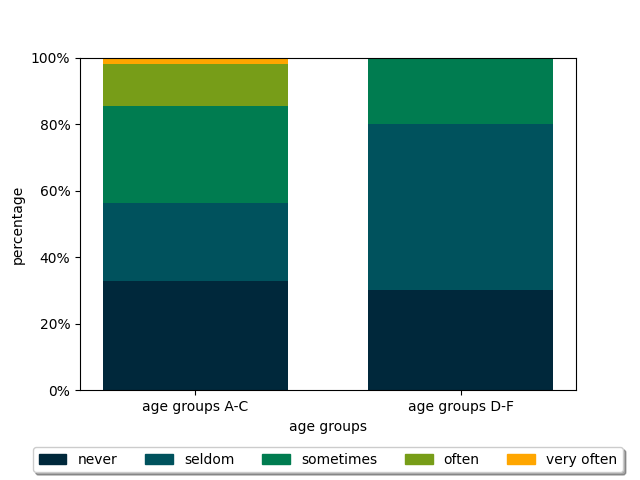
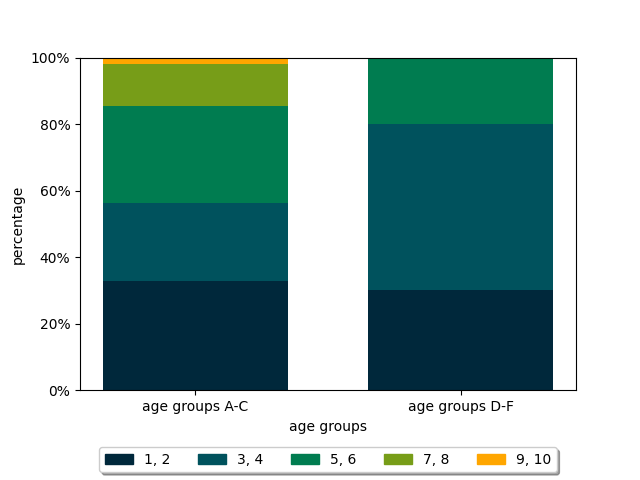
changed colors again

Changed region(s): [[0.0312, 0.9375, 1.0, 1.0]]

diff --git a/create_bar_charts.py b/create_bar_charts.py
@@ -514,11 +514,11 @@ def create_age_motivation_stacked_bar_chart():
     ax.set_ylabel('percentage')
     ax.set_xlabel('age groups')
     
-    never_patch = mpatches.Patch(color='#00283b', label='never')
-    seldom_patch = mpatches.Patch(color='#00525d', label='seldom')
-    sometimes_patch = mpatches.Patch(color='#007c50', label='sometimes')
-    often_patch = mpatches.Patch(color='#779d18', label='often')
-    very_often_patch = mpatches.Patch(color='#ffa600', label='very often')
+    never_patch = mpatches.Patch(color='#00283b', label='1, 2')
+    seldom_patch = mpatches.Patch(color='#00525d', label='3, 4')
+    sometimes_patch = mpatches.Patch(color='#007c50', label='5, 6')
+    often_patch = mpatches.Patch(color='#779d18', label='7, 8')
+    very_often_patch = mpatches.Patch(color='#ffa600', label='9, 10')
 
     box = ax.get_position()
     ax.set_position([box.x0, box.y0 + box.height * 0.1, box.width, box.height * 0.9])
@@ -554,11 +554,11 @@ def create_age_motivation_stacked_bar_chart():
     ax.set_ylabel('percentage')
     ax.set_xlabel('age groups')
     
-    never_patch = mpatches.Patch(color='#00283b', label='never')
-    seldom_patch = mpatches.Patch(color='#00525d', label='seldom')
-    sometimes_patch = mpatches.Patch(color='#007c50', label='sometimes')
-    often_patch = mpatches.Patch(color='#779d18', label='often')
-    very_often_patch = mpatches.Patch(color='#ffa600', label='very often')
+    never_patch = mpatches.Patch(color='#00283b', label='1, 2')
+    seldom_patch = mpatches.Patch(color='#00525d', label='3, 4')
+    sometimes_patch = mpatches.Patch(color='#007c50', label='5, 6')
+    often_patch = mpatches.Patch(color='#779d18', label='7, 8')
+    very_often_patch = mpatches.Patch(color='#ffa600', label='9, 10')
 
     box = ax.get_position()
     ax.set_position([box.x0, box.y0 + box.height * 0.1, box.width, box.height * 0.9])
@@ -576,17 +576,17 @@ def main():
     motivation_movie = processDataToString(data, "How motivated are you to become physically active after you've watched a movie / a series on a scale from 1 (not at all motivated) to 10 (very motivated)? (Punkte von 1 bis 10) ")
     symptoms_book, symptoms_movie, snacks_book, snacks_movie, frequently_book = convert_string_scales_to_values()
 
-    create_simple_bar_chart(symptoms_book, symptoms_movie, 'symptoms')
-    create_simple_bar_chart(snacks_book, snacks_movie, 'snacks')
-    create_simple_bar_chart(motivation_book, motivation_movie, 'motivation')
+    # create_simple_bar_chart(symptoms_book, symptoms_movie, 'symptoms')
+    # create_simple_bar_chart(snacks_book, snacks_movie, 'snacks')
+    # create_simple_bar_chart(motivation_book, motivation_movie, 'motivation')
 
-    create_mean_bar_chart_with_multiple_bars()
+    # create_mean_bar_chart_with_multiple_bars()
 
-    create_age_time_bar_chart()
-    create_age_symptoms_bar_chart()
+    # create_age_time_bar_chart()
+    # create_age_symptoms_bar_chart()
 
-    create_age_symptoms_stacked_bar_chart()
-    create_age_snacks_stacked_bar_chart()
+    # create_age_symptoms_stacked_bar_chart()
+    # create_age_snacks_stacked_bar_chart()
     create_age_motivation_stacked_bar_chart()
 
 

diff --git a/create_pie_charts.py b/create_pie_charts.py
@@ -109,12 +109,12 @@ def create_basic_diagrams(which_diagram):
         sizes = [F, E, D, C, B, A]
 
         fig, ax1 = plt.subplots()
-        _, _, chart = ax1.pie(sizes, labels=labels, autopct='%1.1f%%', startangle=0, colors=['#003f5c', '#444e86', '#955196', '#dd5182', '#ff6e54', '#ffa600'])
+        _, _, chart = ax1.pie(sizes, labels=labels, autopct='%1.1f%%', startangle=0, colors=['#ffa600', '#ff6e54', '#dd5182', '#955196', '#444e86', '#003f5c'])
         
         # change color of percentage text in the chart
         # source: https://stackoverflow.com/questions/27898830/python-how-to-change-autopct-text-color-to-be-white-in-a-pie-chart
         for i in range(len(chart)):
-            if i == 0:
+            if i == 4 or i == 5:
                 chart[i].set_color('white')
         
         ax1.axis('equal')

diff --git a/create_histograms.py b/create_histograms.py
@@ -29,7 +29,7 @@ def create_histogram(which_histogram):
         
 
         ax = plt.figure().gca()
-        plt.hist(age, bins = bins, rwidth=0.9, color='#007c50', align='left') 
+        plt.hist(age, bins = bins, rwidth=0.9, color='#955196', align='left') 
         plt.xlim([0, 65])
         # plt.xticks(np.arange(9,61,1))
         ax.set_xticks([0, 5, 10, 15, 20, 25, 30, 35, 40, 45, 50, 55, 60, 65])
